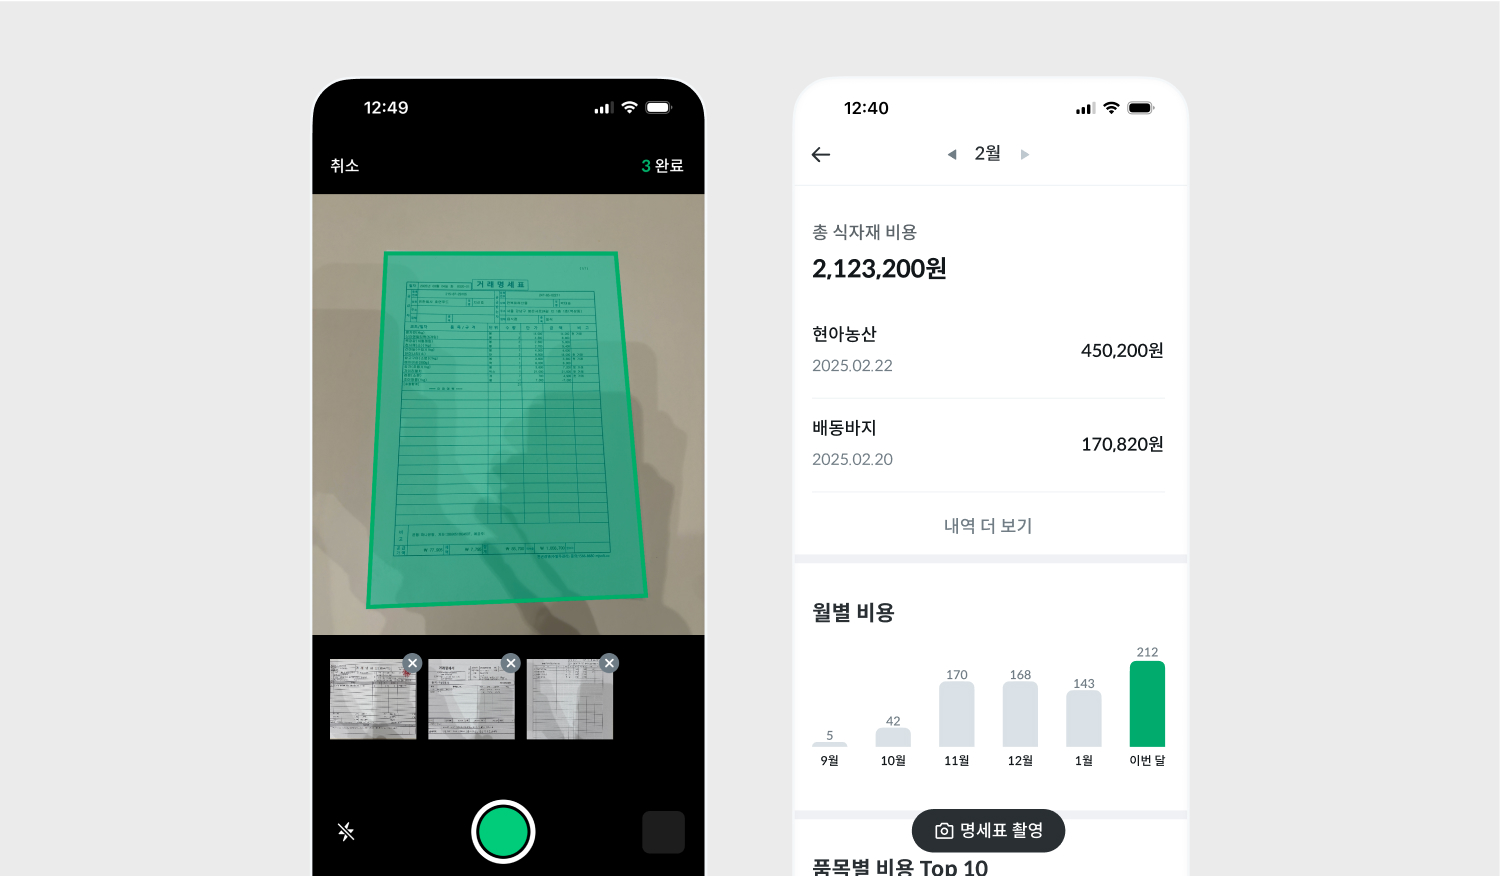
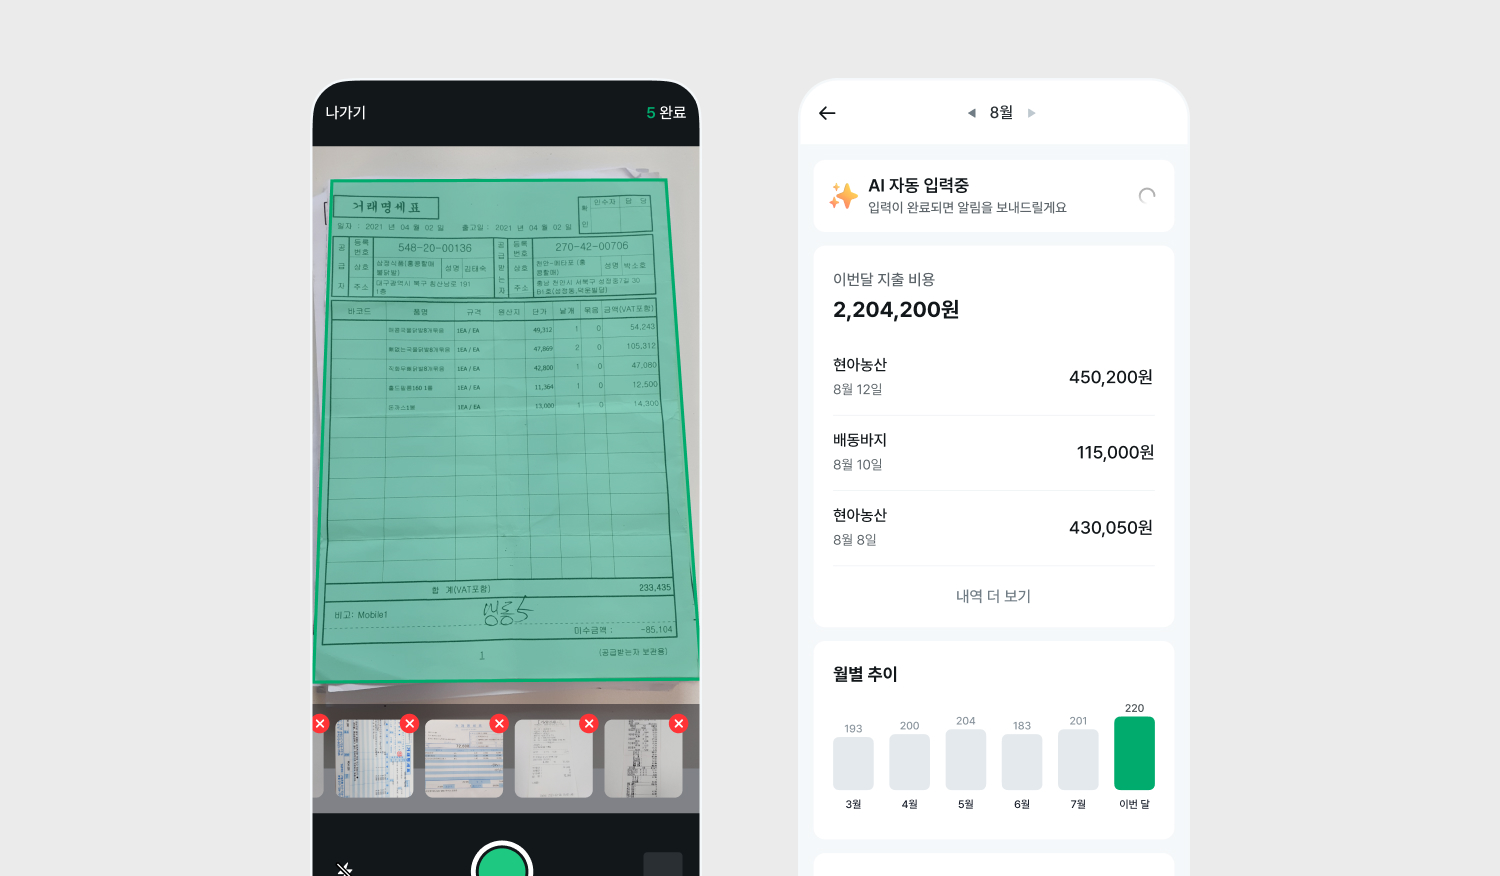
c6. 타이포그래피 수정

diff --git a/work.html b/work.html
@@ -74,7 +74,7 @@
                     <!-- description -->
                     <p class="header-description">
                         손에 잡히는 가치를 만듭니다.<br>
-                        단순히 디자인의 영역에만 머무는 것이 아닌, 기술과 비즈니스를 통해 경계를 확장하는 것을 좋아합니다.
+                        기술과 비즈니스를 통해 디자인의 경계를 확장하는 것에 관심이 많습니다.
                     </p>
                     <!-- content -->
                     <div class="collapsible-content">
@@ -84,13 +84,12 @@
                                 <h3 class="body-title" data-image-name="wind">
                                     <a href="https://brunch.co.kr/@okid2318/18" target="_blank" rel="noopener noreferrer">
                                         Wind
-                                        <span>| 바이브 코딩으로 만든 App Blocker</span>
+                                        <span>| 바이브 코딩으로 앱 런칭하기</span>
                                         <div class="body-title-meta"><img src="../img/icon/link.svg" alt="External link" class="link-icon"></div>
                                     </a>
                                 </h3>
                                 <p class="body-description">
-                                    앱의 사용 시간을 설정하고 초과 시 앱이 잠기는 디지털 디톡스 서비스 입니다.<br>
-                                    Cursor를 활용해 App Blocker를 제작, 런칭한 경험을 공유했습니다.
+                                    Cursor를 활용해 App Blocker를 제작, 배포한 경험을 공유했습니다.
                                 </p>
                             </div>
                             <!-- 🔵 D2 Project -->
@@ -98,18 +97,17 @@
                                 <h3 class="body-title" data-image-name="d2">
                                     <a href="https://www.figma.com/design/5l7U4u1kuLjN3ljUMobLB8/Personal?node-id=114-6&t=SBhCM8vyTnlU55nY-1" target="_blank" rel="noopener noreferrer">
                                         D2
-                                        <span> | 마크업 언어로 개인 웹사이트 만들기</span>
+                                        <span> | 웹 포트폴리오 만들기</span>
                                         <div class="body-title-meta">
                                             <img src="../img/icon/link.svg" alt="External link" class="link-icon">
                                         </div>
                                     </a>
                                 </h3>
                                 <p class="body-description">
-                                    별도 툴의 도움 없이 직접 개인 웹사이트를 만들었습니다.<br>
-                                    웹 환경에 대해 공부하고, 엔지니어와 효율적인 소통방식을 고민했습니다.
+                                    웹사이트를 만들며 마크업과 웹 환경에 대해 공부했습니다.
                                 </p>
                             </div>
-                            <!-- 🔵 -->
+                            <!-- 🔵
                             <div class="work-body-item">
                                 <h3 class="body-title" data-image-name="citylights">
                                     <a href="https://www.figma.com/design/5l7U4u1kuLjN3ljUMobLB8/City-Lights?node-id=0-1&t=raWr6Vt1qG0j6wHF-1" target="_blank" rel="noopener noreferrer">City Lights
@@ -122,7 +120,7 @@
                                     서울의 도시인을 주제로 흑백 사진집을 제작했습니다.
                                 </p>
                             </div>
-                        </div>
+                        </div> -->
                     </div>
                 </article>
 
@@ -148,8 +146,8 @@
 
                     <!-- description -->
                     <p class="header-description">
-                        식자재 유통사를 위한 B2B SaaS 제품의 기능 개발과 유지보수, 주요 클라이언트의 유저 인터뷰에 참여했습니다.<br>
-                        품목 데이터 확보와 업셀링 기능 제작을 주도해 MRR 달성에 기여했습니다.
+                        식자재 시장과 유통사의 비효율을 해결하기 위한 ERP 제품을 고도화했습니다.<br>
+                        B2B, SaaS 형태 사업에서 제품 개발에 대해 고민할 수 있었습니다.
                     </p>
                     <!-- content -->
                     <div class="collapsible-content">
@@ -158,38 +156,41 @@
                             <!-- 🔵 -->
                             <div class="work-body-item">
                                 <h3 class="body-title" data-image-name="ocr">
-                                    <a href="#">OCR 기반 명세서 자동정리
+                                    <a href="#">명세표 자동 정리
                                         <div class="body-title-meta">
                                             <span class="title-tag">TBU</span>
                                         </div>
                                     </a>
                                 </h3>
                                 <p class="body-description">
-                                    이미지 인식과 프롬프트 AI를 활용해 매장이 기존에 수기로 진행한 명세표 정리 업무를 자동화했습니다.<br>
-                                    이 과정에서 매장의 기존 거래처와 품목, 가격 데이터를 확보해 업셀링 기능의 기반을 마련했습니다.
+                                    OCR과 Claude AI를 활용해 매장이 수기로 진행하는 명세표 정리 업무를 자동화했습니다.
                                 </p>
                             </div>
                             <!-- 🔵 -->
                             <div class="work-body-item">
-                                <h3 class="body-title" data-image-name="orderSearch">
-                                    <a href="#">주문 및 검색 개선
+                                <h3 class="body-title" data-image-name="erp">
+                                    <a href="#">ERP SaaS 운영 개선
                                         <div class="body-title-meta">
                                             <span class="title-tag">TBU</span>
                                         </div>
                                     </a>
                                 </h3>
                                 <p class="body-description">
-                                    유저 인터뷰와 쉐도잉(사내 UT)을 통해 정량 데이터로는 보이지 않는 주문 퍼널의 문제점을 도출했습니다.<br>
-                                    매장이 매일 반복적으로 진행하는 주문 업무를 더욱 간편하게 진행하도록 플로우 개선을 진행했습니다.
+                                    권한 설정, 매출 대시보드, 세금 계산서 관리, 휴·폐업 조회 등<br>
+                                    고객사의 요청 및 인터뷰에 기반한 엔터프라이즈 제품의 기능 개발과 유지보수 작업을 담당했습니다.
                                 </p>
                             </div>
                             <!-- 🔵 -->
                             <div class="work-body-item">
-                                <h3 class="body-title" data-image-name="permission">
-                                    <a href="#">매장 유저의 권한 설정</a>
+                                <h3 class="body-title" data-image-name="distributorApp">
+                                    <a href="#">유통사 앱 제작
+                                        <div class="body-title-meta">
+                                            <span class="title-tag">TBU</span>
+                                        </div>
+                                    </a>
                                 </h3>
                                 <p class="body-description">
-                                    유저 페르소나가 심화됨에 따라 직원과 관리자로 앱 내 기능 접근을 제한하는 유저의 권한 개념을 도입했습니다.
+                                    라스트 마일의 현장 작업자를 위한 배송 기사님 앱을 제작했습니다.
                                 </p>
                             </div>
                             <!-- 🔵 -->
@@ -204,7 +205,7 @@
                                     </a>
                                 </h3>
                                 <p class="body-description">
-                                    커리어 첫 B2B SaaS 제품을 디자인하며 느낀 점과 경험을 사내 블로그로 공유했습니다.
+                                    커리어 첫 B2B SaaS 제품을 디자인하며 느낀 점과 경험을 사내 블로그에 공유했습니다.
                                 </p>
                             </div>
                         </div>
@@ -219,7 +220,7 @@
                     <!-- header -->
                     <div class="work-header">
                         <div class="header-title">
-                            <h1>DODO | Breakaway</h1>
+                            <h1>DODO | Product Maker</h1>
                         </div>
                         <div class="header-period">
                             <span>Dec 2023 - Aug 2024</span>
@@ -228,7 +229,7 @@
 
                     <!-- description -->
                     <p class="header-description">
-                        북미 시장을 대상으로 알림톡, 소규모 셀러를 위한 영업 툴을 제작했습니다.<br>
+                        북미 커머스 시장을 대상으로 알림톡, 셀러를 위한 영업 툴을 제작했습니다.<br>
                         동업자 문제로 중간에 사업을 접어야 했지만, 세금과 법률, Zero to One을 말이 아닌 몸으로 경험했습니다.
                     </p>
                 </article>
@@ -255,8 +256,8 @@
 
                     <!-- description -->
                     <p class="header-description">
-                        고수와 고객 매칭 플랫폼에서 고수(공급자)의 사용 편의성과 매출 증대 스쿼드에 소속되었습니다.<br>
-                        데이터드리븐 문화를 경험했고, 전사 BEP 달성과 흑자 전환에 기여했습니다.
+                        O2O 매칭 플랫폼에서 고수(공급자)의 사용 편의성과 매출 증대를 담당하는 스쿼드에 소속되었습니다.<br>
+                        데이터 드리븐 문화를 경험했고, 전사 흑자 전환과 BEP 달성에 기여했습니다.
                     </p>
                     <!-- content -->
                     <div class="collapsible-content">
@@ -265,15 +266,14 @@
                             <!-- 🔵 -->
                             <div class="work-body-item">
                                 <h3 class="body-title" data-image-name="proMain">
-                                    <a href="#">메인 홈 개편
+                                    <a href="#">고수 메인 홈
                                         <div class="body-title-meta">
                                             <span class="title-tag">TBU</span>
                                         </div>
                                     </a>
                                 </h3>
                                 <p class="body-description">
-                                    사업확장, 유저 페르소나 심화에 따라 빠른 실험과, 개인화가 가능한 형태의 메인 홈을 제작했습니다.<br>
-                                    주요 지표를 방어하면서 유저 잔존율, 하위 도메인 전환 등 주요 지표를 5~10% 상승시켰습니다.
+                                    100만 고수를 위한 새로운 홈 화면을 제작했습니다.
                                 </p>
                             </div>
                             <!-- 🔵 -->
@@ -286,8 +286,18 @@
                                     </a>
                                 </h3>
                                 <p class="body-description">
-                                    요청서를 재사용해 고객이 고수에게 더 효과적으로 다가갈 수 있는 기능을 제작했습니다.<br>
-                                    가장 크게 실패한 프로젝트였고, 사용성 개선이 매출을 크게 떨어뜨릴 수 있다는 레슨런을 얻었습니다.
+                                    고객이 다수의 고수에게 직접 요청을 보낼 수 있는 기능을 제작했습니다.<br>
+                                    방어 지표를 지키지 못해 롤백했고, 사용성 개선이 매출을 떨어뜨릴 수 있다는 레슨런을 얻었습니다.
+                                </p>
+                            </div>                        
+                            <!-- 🔵 -->
+                            <div class="work-body-item">
+                                <h3 class="body-title" data-image-name="proSearch">
+                                    <a href="#">고수찾기 리뉴얼</a>
+                                </h3>
+                                <p class="body-description">
+                                    8개월간 하나의 도메인을 지속적으로 개선했습니다.<br>
+                                    검색 고도화, 필터 추가, Flow 변경 등으로 누적 전환율 10% 상승을 만들어냈습니다.
                                 </p>
                             </div>
                             <!-- 🔵 -->
@@ -296,29 +306,10 @@
                                     <a href="#">바로견적 개선</a>
                                 </h3>
                                 <p class="body-description">
-                                    고수에게 바로 견적의 지역별 예상 비용과 수익을 보여주는 기능을 제작했습니다.<br>
-                                    기존의 다크패턴을 걷어내었고, 합당한 가치를 제공하고 돈을 받는 피처로 변화시켰습니다.
+                                    고수에게 지역별 예상 수익을 보여주는 기능을 제작했습니다.<br>
+                                    기존의 다크 패턴을 걷어내는 작업을 진행했습니다.
                                 </p>
-                            </div>                            
-                            <!-- 🔵 -->
-                            <div class="work-body-item">
-                                <h3 class="body-title" data-image-name="proSearch">
-                                    <a href="#">고수찾기 리뉴얼</a>
-                                </h3>
-                                <p class="body-description">
-                                    8개월간 하나의 도메인을 지속적으로 개선했습니다.<br>
-                                    검색, 평균 응답시간, 필터, 요청 플로우 등을 추가/수정했고, 누적 전환율 10% 이상의 결과를 만들었습니다.
-                                </p>
-                            </div>
-                            <!-- 🔵
-                            <div class="work-body-item">
-                                <h3 class="body-title" data-image-name="signup">
-                                    <a href="#">고수 회원가입 플로우 간소화</a>
-                                </h3>
-                                <p class="body-description">
-                                    나중에 받을 수 있는 정보는 과감하게 빼고, 주요 이탈지점을 최적화해 회원가입률을 7% 상승시켰습니다.
-                                </p>
-                            </div> -->
+                            </div>    
                             <!-- 🔵 -->
                             <h3 class="body-teamTitleEnd">디자인 챕터</h3>
                             <div class="work-body-item">
@@ -331,8 +322,7 @@
                                     </a>
                                 </h3>
                                 <p class="body-description">
-                                    7개의 스쿼드, 9명의 디자이너가 효율적으로 마스터 파일의 형상을 관리할 수 있는 방법론을 구축했습니다.<br>
-                                    구축 과정과 주요 내용을 사내 블로그로 공유했습니다.
+                                    디자인 챕터의 마스터 파일 형상관리 전략을 구축한 과정을 사내 블로그에 공유했습니다.
                                 </p>
                             </div>
                             <!-- 🔵 -->
@@ -346,17 +336,7 @@
                                     </a>
                                 </h3>
                                 <p class="body-description">
-                                    챕터 벨류업을 위한 사내 인터뷰에 참여했습니다.
-                                </p>
-                            </div>
-                            <!-- 🔵 -->
-                            <div class="work-body-item">
-                                <h3 class="body-title" data-image-name="voc">
-                                    <a href="#">VOC 청취 환경 개선</a>
-                                </h3>
-                                <p class="body-description">
-                                    전화 상담 및 채팅 기록등 정성 데이터를 디자인 작업에 활용할 수 있는 환경을 조성했습니다.<br>
-                                    숫자의 행간을 일고, 정량 데이터에 매몰되지 않기 위한 노력이 필요하다는 것을 공유했습니다.
+                                    챕터 밸류업을 위한 사내 인터뷰에 참여했습니다.
                                 </p>
                             </div>
                         </div>
@@ -399,8 +379,8 @@
                                     </a>
                                 </h3>
                                 <p class="body-description">
-                                    구독 신사업 제품 개발을 주도했습니다.<br>
-                                    사업성 검토부터, 기획, 디자인 모두를 담당했습니다.
+                                    구독 서비스 제작을 리딩했습니다.<br>
+                                    사업성 검토부터 기획, 디자인까지 모두 담당했습니다.
                                 </p>
                             </div>
                             <!-- 🔵 -->
@@ -409,8 +389,7 @@
                                     <a href="#">초기 이커머스 플랫폼 구축</a>
                                 </h3>
                                 <p class="body-description">
-                                    백오피스를 포함한 초기 커머스 플랫폼을 제작했습니다.<br>
-                                    회원 가입부터 부분 환불 까지 커머스의 A-Z를 경험했습니다.
+                                    회원 가입부터 부분 환불까지, 커머스의 A-Z를 경험했습니다.
                                 </p>
                             </div>
                             <!-- 🔵 -->
@@ -419,8 +398,8 @@
                                     <a href="#">시리즈 A, IR 제작</a>
                                 </h3>
                                 <p class="body-description">
-                                    Seed, 시리즈 A 투자 발표자료를 제작했습니다.<br>
-                                    거시적인 비즈니스 전략과 제품 개발의 싱크를 맞추는데 기여했습니다.
+                                    Seed, 시리즈 A의 IR 제작 및 전략 기획 참여했습니다.<br>
+                                    거시적인 비즈니스 전략과 제품 개발의 싱크를 맞추는 데 기여했습니다.
                                 </p>
                             </div>
                             <!-- 🔵 -->
@@ -429,7 +408,7 @@
                                     <a href="#">SSG 입점용 패키지 제작</a>
                                 </h3>
                                 <p class="body-description">
-                                    신세계 납품에 사용될 커스텀 패키지의 구조 설계, 인쇄, 감리를 담당했습니다.
+                                    커스텀 패키지의 설계, 인쇄, 감리를 담당했습니다.
                                 </p>
                             </div>
                         </div>

diff --git a/css/main.css b/css/main.css
@@ -315,13 +315,13 @@ body {
 
 /* container & item divider */
 .work-body {
-    margin-top: 2.5rem;
+    margin-top: 2.2rem;
     padding-top: 2.5rem;
     border-top: 1px solid var(--color-100);
 }
 
 .work-body-item {
-    margin-bottom: 2.9rem;
+    margin-bottom: 3rem;
 }
 
 .work-body-item:last-child {
@@ -383,24 +383,24 @@ body {
 
 /* body*/
 .body-teamTitleStart {
-    font-size: 1.2rem;
-    font-weight: 600;
-    color: var(--color-500);
-    margin-bottom: 1.8rem;
+    font-size: 1.3rem;
+    font-weight: 500;
+    color: var(--color-600);
+    margin: .5rem 0 1.8rem 0;
 }
 
 .body-teamTitleEnd {
-    font-size: 1.2rem;
-    font-weight: 600;
-    color: var(--color-500);
-    margin: 4rem 0 1.8rem 0;
+    font-size: 1.3rem;
+    font-weight: 500;
+    color: var(--color-600);
+    margin: 4.5rem 0 2rem 0;
 }
 
 .body-title {
-    font-size: 1.37rem;
-    font-weight: 600;
+    font-size: 1.3rem;
+    font-weight: 500;
     color: var(--color-900);
-    margin-bottom: 0.6rem;
+    margin-bottom: 0.7rem;
     display: inline-block;
 }
 
@@ -426,10 +426,10 @@ body {
 }
 
 .body-description {
-    font-size: 1.23rem;
+    font-size: 1.3rem;
     font-weight: 300;
     line-height: 1.8;
-    color: var(--color-500);
+    color: var(--color-600);
 }
 
 /* body meta */
@@ -520,10 +520,10 @@ body {
 }
 
 .about-text {
-    font-size: 1.35rem;
-    font-weight: 400;
+    font-size: 1.3rem;
+    font-weight: 300;
     line-height: 1.75;
-    color: var(--color-500);
+    color: var(--color-600);
     margin-bottom: 4.5rem;
 }
 

diff --git a/index.html b/index.html
@@ -90,7 +90,7 @@
                     </div>
                     <div class="tag">TBU</div>
                     <h2 class="card-title">명세서 자동정리</h2>
-                    <p class="card-subtitle">OCR과 프롬프트 AI를 활용해 오랫동안 수기로 진행된 업계의 관행을 자동화했습니다.</p>
+                    <p class="card-subtitle">OCR과 Claude AI를 활용해 매장이 수기로 진행하는 명세표 정리 업무를 자동화했습니다.</p>
                 </article>
 
                 <article class="project-card">
